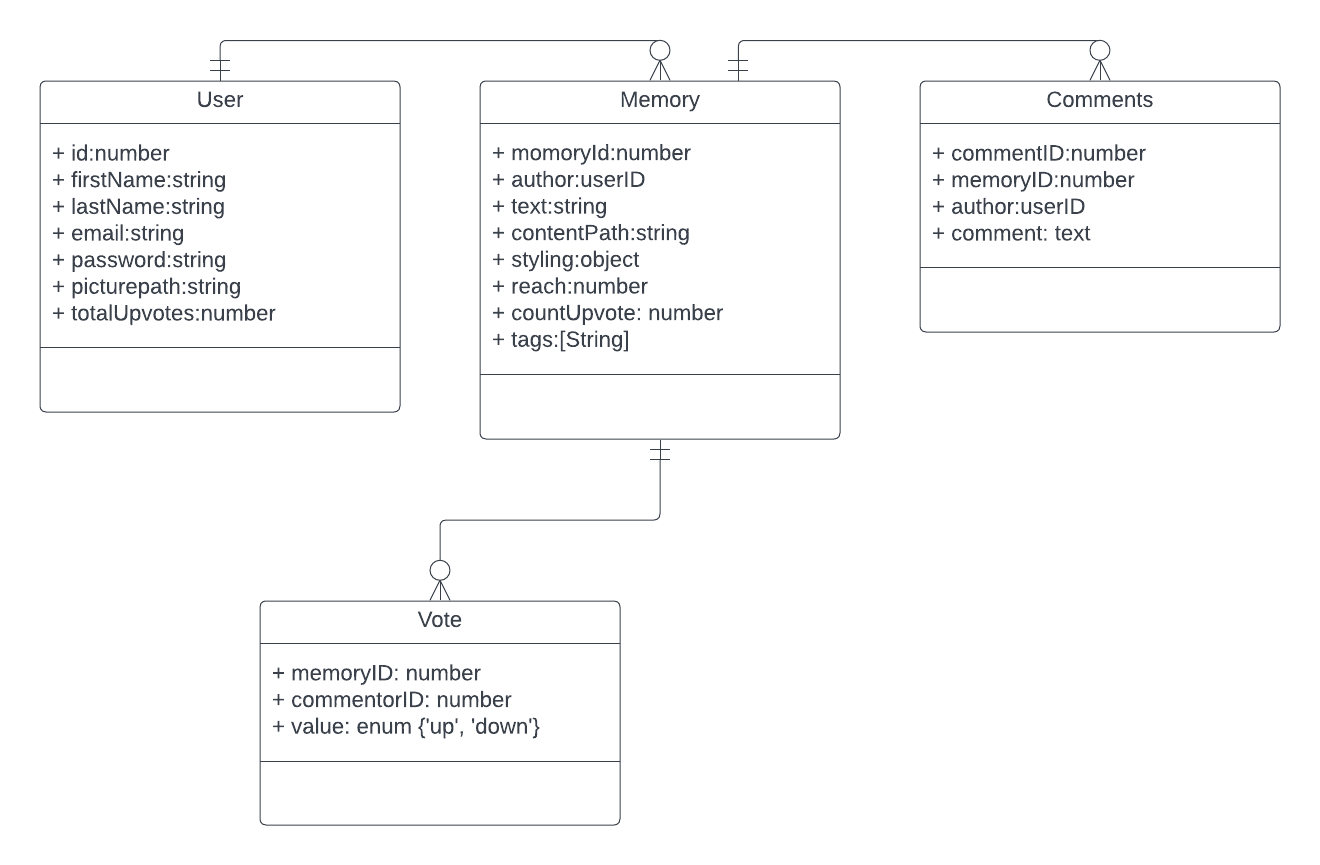
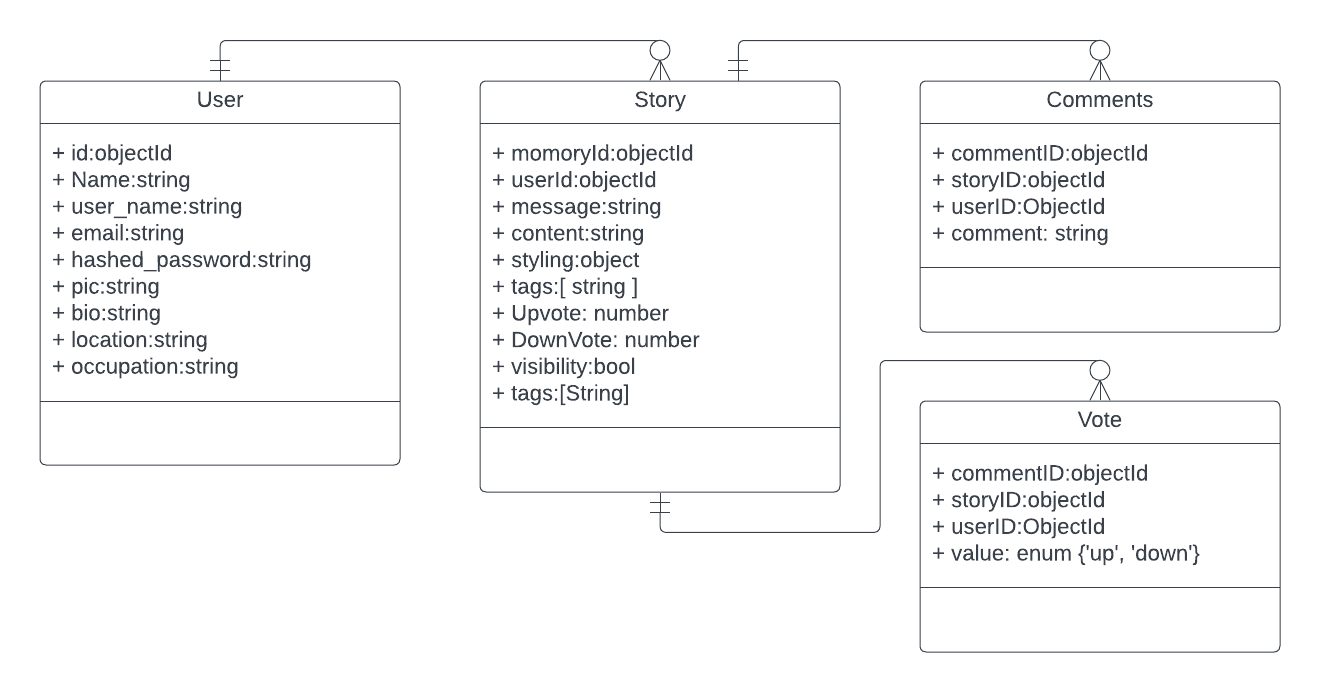
Readme updated

diff --git a/readme.md b/readme.md
@@ -3,16 +3,12 @@
 
 [![Build Status](https://travis-ci.org/joemccann/dillinger.svg?branch=master)](https://travis-ci.org/joemccann/dillinger)
 
-- `ERD`
+
 - `softwre hardware requirement`
 - `Non functional Reuirement`
 - `Future `
 
 The project "Digital Story" is a web application that allows users to create and share stories in various formats, including text, image, and video. The application has a front end built using React with Redux, and a back end consisting of a RESTful API and a database.
-
-- Type some Markdown on the left
-- See HTML in the right
-- ✨Magic ✨
 
 ## Features
 -  `Registration`: Registration requires the user to enter their name, a unique username, a correctly formatted email address, and an optional profile picture.
@@ -40,6 +36,7 @@ To install the app, follow these steps:
     git clone https://github.com/syedwastil/MemoriesApp
 ```
 2. Install the dependencies:
+Digital Stories requires [Node.js](https://nodejs.org/) v10+ to run.
     1. Open terminal for `server` and run:
         ```bash
             cd memoriesApp/server
@@ -73,23 +70,59 @@ The app is built using the MERN stack:
 - Redux for client side store management
 - Node.js as the runtime environment
 
-### Backend
-##### Entity Relationship Diagram (ERD)
+
+### ERD
+Entity relationship diagram of project is given as:
 ![This is an image](docs/erd.png)
 
+ the ERD may include the following entities:
+
+- `User`: This entity will store information about the user, including their name, email, username, and password. Each user can have multiple stories.
+- `Story`: This entity will store information about each story, including the author, the story content (text, image, video), and the style information (colors, fonts, etc.). Each story belongs to a single user and can have multiple comments and reactions (upvotes/downvotes).
+- `Comment`: This entity will store information about each comment, including the author, the comment content, and the timestamp. Each comment belongs to a single story.
+- `Vote`: This entity will store information about each vote, including the author, the vote value(upvote/downvote), and the timestamp. Each vote belongs to a single story and user.
+The ERD will show the relationships between these entities, such as:
+
+The ERD will show the relationships between these entities, such as:
+- One-to-many relationship between `User and Story`: Each user can have multiple stories, but each story belongs to a single user.
+- One-to-many relationship between `Story and Comment`: Each story can have multiple comments, but each comment belongs to a single story.
+- One-to-many relationship between `Story and Vote`: Each story can have multiple votes, but each vote belongs to a single comment.
+
+### Backend
+
 The backend of the app is built using Express.js and Node.js. Here are the main components:
-- `server.js`: The main server file that sets up the Express.js app and connects to the database.
-- `routes/notes.js`: Defines the API endpoints for CRUD operations on notes.
-- `controllers/notes.js`: Implements the logic for CRUD operations on notes.
-- `models/note.js`: Defines the schema for the notes in the database.
+- `index.js`: The main server file that sets up the Express.js app and connects to the database. All third party middlewares are also defined here.
+- `routes/auth.js,user.js,story.js,comment.js,vote.js`: Defines the API endpoints for CRUD operations on each entity separately.
+- `controllers/auth.js,user.js,story.js,comment.js,vote.js`: Implements the logic for CRUD, aggregate and auth operations on each entity separately.
+- `models/user.js,story.js,comment.js,vote.js`: Defines the schema for the entities in the database.
 
 ### Frontend
-The frontend of the app is built using React. Here are the main components:
+The frontend of the app is built using React with redux. Frontend code is mainly divided into state, scenes, components and widgets.
+#### 1. State:
+- `state/index.js` contain code of redux state in a single file. Redux toolkit is used to optimze writing the code.
+#### 2. Scenes:
+- `scenes/loginPage.js` contain forms for login and registration page both.
+![Login](docs/login.png)
+![Register](docs/register.png)
 
-- `App.js`: The main React component that sets up the app and renders other components.
-- `components/NoteList.js`: Renders the list of notes.
-- `components/AddNote.js`: Renders the form to add a new note.
-- `components/EditNote.js`: Renders the form to edit an existing note.
+- `scenes/homePage.js` After login user will be redirected to home page which display info about user logged in, navbar, stories posted, sort and grid filter pannels.
+![homepage](docs/home%20W.png)
+![homepage](docs/home%20B.png)
+- `scenes/trendingPage.js` Display all stories sorted by upVotes.
+- ![trendingPage](docs/trending%20W.png)
+- ![trendingPage](docs/trending%20B.png)
+- `scenes/Leaderboard.js` Display top users with highest upVotes and their stats.
+- ![leaderboard](docs/leaderboard%20w.png)
+- ![leaderboard](docs/leaderboard%20b.png)
+- `scenes/profilePage.js` contain all stories posted by user whose profile is being visited.
+- ![profilePage](docs/home%20B.png)
+- `scenes/pageNotFound.js` Display 404 page.
+- ![404 Page](docs/404.png)
+- 
+#### 1. Components:
+- 
+#### 1. Widgets:
+- 
 
 ## Contributing
 
@@ -115,7 +148,7 @@ watch the results in the right.
 
 ## Tech
 
-Dillinger uses a number of open source projects to work properly:
+Digital Stories uses a number of open source projects to work properly:
 
 - [AngularJS] - HTML enhanced for web apps!
 - [Ace Editor] - awesome web-based text editor
@@ -128,20 +161,7 @@ Dillinger uses a number of open source projects to work properly:
 to Markdown converter
 - [jQuery] - duh
 
-And of course Dillinger itself is open source with a [public repository][dill]
- on GitHub.
 
-## Installation
-
-Dillinger requires [Node.js](https://nodejs.org/) v10+ to run.
-
-Install the dependencies and devDependencies and start the server.
-
-```sh
-cd dillinger
-npm i
-node app
-```
 
 ## Plugins
 
